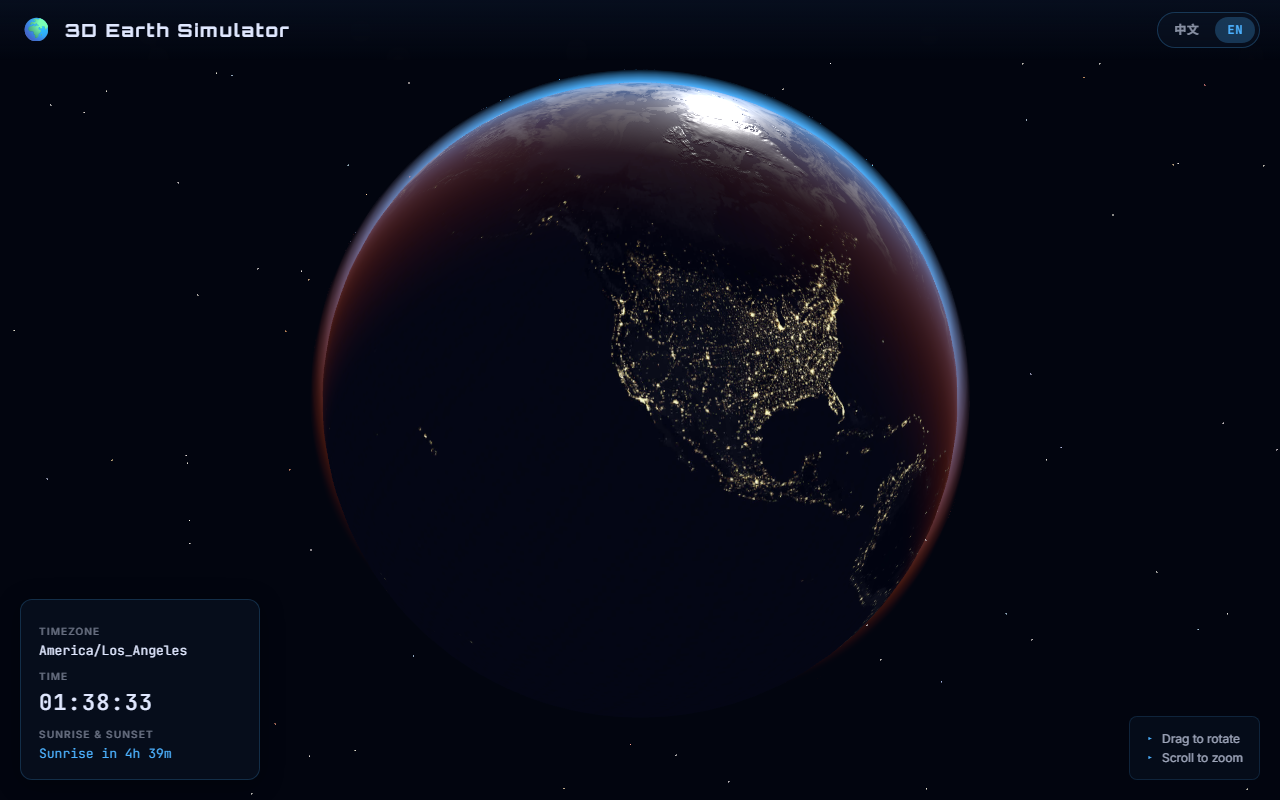
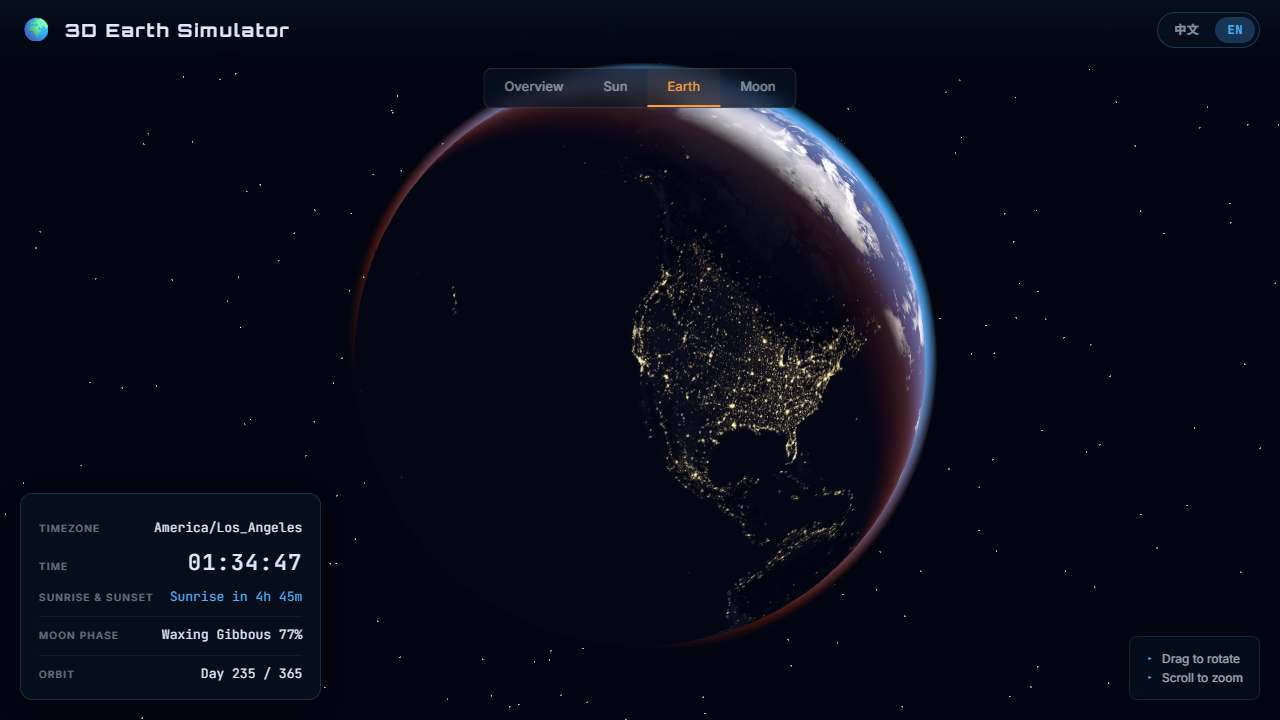
docs: update v1.1

diff --git a/README.md b/README.md
@@ -2,7 +2,7 @@
 
 > A real-time 3D Earth with day/night cycle and auto-located visitor view — pure frontend, no backend.
 
-![status](https://img.shields.io/badge/status-v1.0-brightgreen)
+![status](https://img.shields.io/badge/status-v1.1-brightgreen)
 ![license](https://img.shields.io/badge/license-MIT-blue)
 ![tech](https://img.shields.io/badge/Three.js-r185-000000?logo=three.js)
 ![no-backend](https://img.shields.io/badge/backend-none-brightgreen)
@@ -17,29 +17,32 @@ English | [中文](./README.zh-CN.md)
 
 The entire experience is self-contained: no backend, no API keys (except a public IP geolocation API for first-load location detection), no build server at runtime.
 
-## Screenshots
+## Preview
 
-The initial view auto-locates the visitor and centers the camera on their home location.
+| Overview | Earth |
+| --- | --- |
+| ![Overview en-US](./docs/screenshots/en-US-overview.png) | ![Earth en-US](./docs/screenshots/en-US.png) |
 
-The terminator (day/night line) is computed from the current UTC sun position.
-
-![3D Earth Simulator — English UI, auto-located to Asia/Shanghai](./docs/screenshots/en-US.png)
+The terminator (day/night line) is computed from the current UTC sun position. The Overview view shows the Earth–Moon–Sun spatial relationship with both orbit guides; the Earth view shows the auto-located day/night terminator on the planet with NASA Black Marble city lights on the night side.
 
 The page starts with a fast rotation (600× real-time) so you can immediately see the planet is alive.
 
 After locating you, the camera tweens to your home position over 3 seconds while easing the spin back to 1×.
 
-Drag to rotate manually; a "Reset view" button appears so you can fly back home.
+Use the 4-view tabs in the top bar to switch between Overview / Sun / Earth / Moon; drag to rotate, scroll to zoom.
 
 ## Features
 
 - **Real-time day/night cycle** — sun position computed from current UTC time, terminator updates every frame
+- **Sun–Earth–Moon (SEM) system** — v1.1: 4-view tabs (Overview / Sun / Earth / Moon) with deterministic camera poses; the sun direction in the Earth view is the actual scene sun (not a faux DirectionalLight)
+- **Unified celestial state** — single `celestialState(instant)` is the only source for sun direction, Earth orientation, moon position and phase; scene / materials / camera / InfoCard all read from the same state
+- **8-phase moon calendar** — moonPhase() returns one of 8 phase names + geometric illumination, displayed in InfoCard
 - **1:1 Earth rotation** — Earth rotates at real-world speed (24h/revolution)
 - **Auto-located view** — initial camera position points to your actual location (IP API + `Intl` fallback)
 - **Drag & zoom** — `OrbitControls` for intuitive interaction
-- **Recenter button** — appears after manual rotation, click to fly back to your home view
 - **City lights at night** — NASA Black Marble overlay shows real city light patterns on the night side
 - **Multilingual UI** — zh-CN / en-US out of the box, custom language packs via `window.appI18n.registerLocale()`
+- **Dev URL params** — `?lan=en-US&loc=34.04,-118.25,-7&tz=America/Los_Angeles` for screenshots / demos / tests (force language + location + IANA tz name without VPN)
 - **Self-hosted fonts** — Orbitron / Inter / JetBrains Mono served locally as woff2, no Google Fonts CDN dependency
 - **Responsive layout** — works on mobile and desktop, TailwindCSS
 - **Pure frontend** — single Vite + TypeScript codebase, deployable to GitHub Pages / Vercel / Netlify with zero config

diff --git a/README.zh-CN.md b/README.zh-CN.md
@@ -2,7 +2,7 @@
 
 > 实时 3D 地球，支持昼夜交替、自动定位视角 — 纯前端，零后端。
 
-![status](https://img.shields.io/badge/status-v1.0-brightgreen)
+![status](https://img.shields.io/badge/status-v1.1-brightgreen)
 ![license](https://img.shields.io/badge/license-MIT-blue)
 ![tech](https://img.shields.io/badge/Three.js-r185-000000?logo=three.js)
 ![no-backend](https://img.shields.io/badge/backend-无-brightgreen)
@@ -17,29 +17,32 @@
 
 整个体验完全自包含：无后端、无 API Key（首次定位除外，使用公共 IP 地理 API）、运行时无需构建服务器。
 
-## 截图
+## 效果预览
 
-初始视角会自动定位到访客所在位置，相机居中。
+| 总览（日地月系统） | 地球（定位视角） |
+| --- | --- |
+| ![总览](./docs/screenshots/zh-CN-overview.png) | ![地球](./docs/screenshots/zh-CN.png) |
 
-晨昏线由当前 UTC 太阳位置实时计算。
-
-![3D 地球模拟器 — 中文 UI，自动定位到 Asia/Shanghai](./docs/screenshots/zh-CN.png)
+晨昏线由当前 UTC 太阳位置实时计算。总览视图展示日地月空间关系和双轨道线；地球视图展示定位点的真实昼夜分界，夜面叠加 NASA Black Marble 城市灯光。
 
 页面启动时地球以 600× 真实速度高速旋转（让人一眼看到它在动）。
 
 定位完成后，3 秒内把相机 tween 到访客位置，同时把转速平滑减速到 1×。
 
-拖拽可手动旋转，操作后"回到默认视角"按钮淡出。
+顶栏的 4 视图 tabs 切换 总览 / 太阳 / 地球 / 月球；拖拽旋转，滚轮缩放。
 
 ## 特性
 
 - **实时昼夜交替** — 太阳位置由当前 UTC 时间计算，晨昏线每帧更新
+- **日地月系统（SEM）** — v1.1：4 视图 tabs（总览/太阳/地球/月球），相机姿态确定性，地球视角的光照方向就是场景里的真实太阳（不再是伪造的 DirectionalLight）
+- **统一天体状态** — 单一 `celestialState(instant)` 是太阳方向、地球姿态、月球位置和月相的唯一来源；场景 / 材质 / 相机 / InfoCard 都从同一状态读取
+- **8 阶段月历** — moonPhase() 返回 8 阶段名 + 几何照度，InfoCard 展示
 - **1:1 地球自转** — 与现实同步（24 小时 / 圈）
 - **自动定位视角** — 初始镜头对正你所在位置（IP API + `Intl` 兜底）
 - **拖拽 + 缩放** — `OrbitControls` 直观交互
-- **回到当前位置按钮** — 手动旋转地球后出现，点击后飞回初始视角
 - **夜面城市灯光** — NASA Black Marble 真实城市灯光纹理
 - **多语言 UI** — 开箱即用 zh-CN / en-US，通过 `window.appI18n.registerLocale()` 支持自定义语言包
+- **Dev URL 参数** — `?lan=en-US&loc=34.04,-118.25,-7&tz=America/Los_Angeles` 一键强制语言 + 定位 + IANA 时区名（截图 / 演示 / 测试用，无需 VPN）
 - **本地自托管字体** — Orbitron / Inter / JetBrains Mono 以 woff2 形式本地提供，零 Google Fonts CDN 依赖
 - **响应式布局** — 兼容移动端 + 桌面，使用 TailwindCSS
 - **纯前端** — 单 Vite + TypeScript 代码库，可零配置部署到 GitHub Pages / Vercel / Netlify
